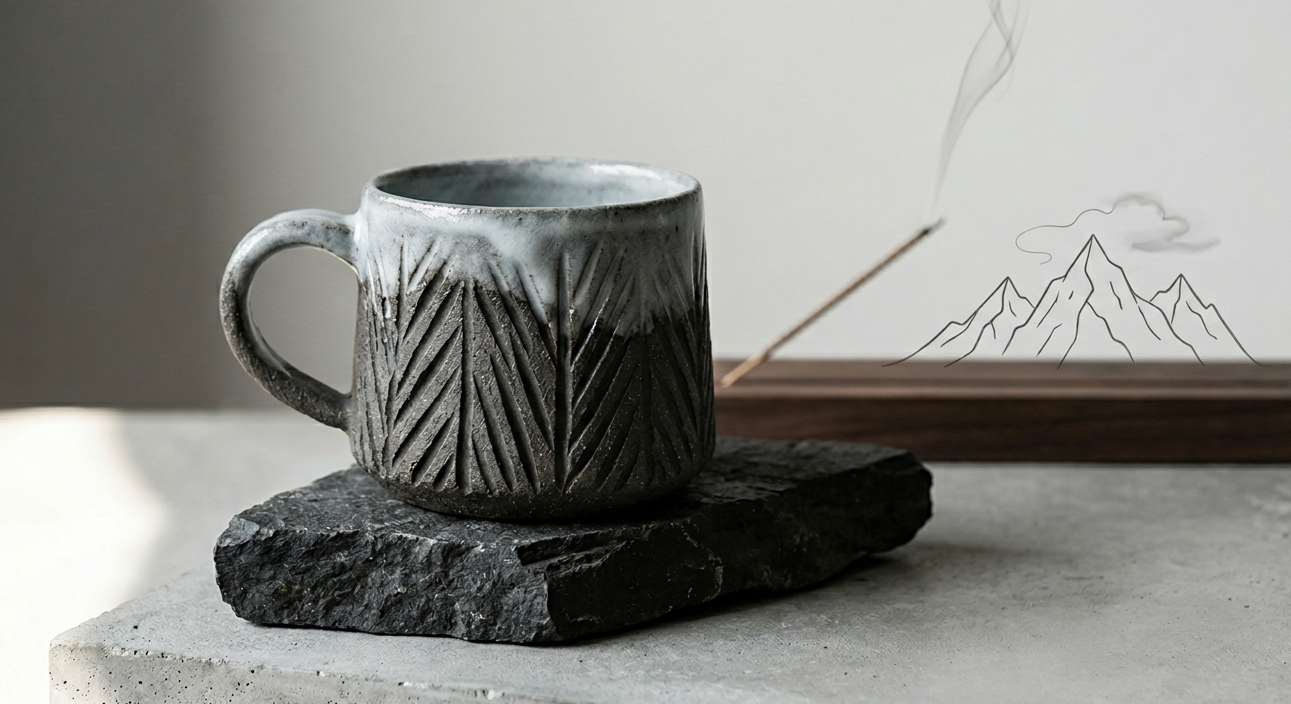
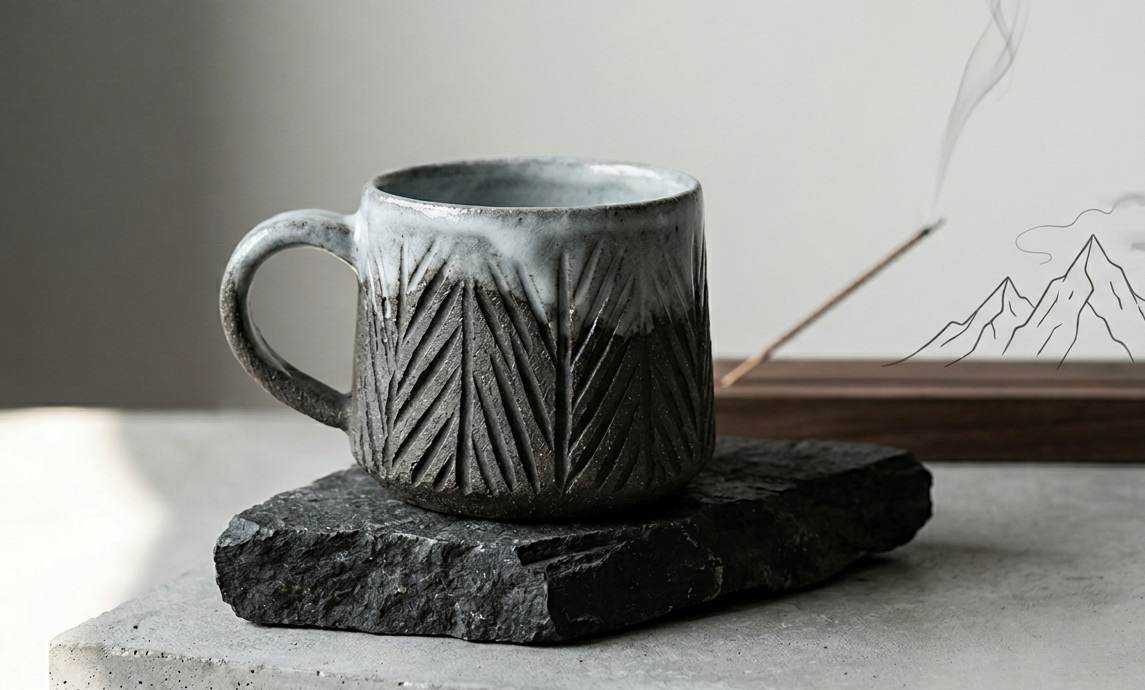
change the title of index.html

diff --git a/index.html b/index.html
@@ -391,7 +391,7 @@
         </div>
         <div class="about-text">
             <span class="section-tag">OUR PHILOSOPHY</span>
-            <h2 class="section-title">褪去多餘的繁瑣花紋，<br>將空間與話語權留給器物本身與使用者</h2>
+            <h2 class="section-title">褪去多餘繁瑣的花紋，<br>將空間話語權留給器物本身</h2>
             <p>雲岫創立於台北。我們相信，每一塊陶土都有自己的脾氣與聲音。透過指尖的力度、水分的拿捏與火候的淬煉，將日常的感悟揉入泥中。</p>
             <p>在這裡，我們不追求完美無瑕的規格化複製品，而是珍惜手拉胚落下的每一道指紋、柴燒留下的每一抹落灰。那是創作者與時間對話的證明。</p>
         </div>
@@ -447,7 +447,7 @@
         <div class="footer-content">
             <div class="footer-box">
                 <h4>Sierra & Co.</h4>
-                <p>讓摸土的時間，成為你日常最平靜的留白。</p>
+                <p>一件對的器皿，足以撐起整個空間的氣韻。</p>
             </div>
             <div class="footer-box">
                 <h4>聯絡與空間資訊</h4>
@@ -462,7 +462,7 @@
                 <ul>
                     <li>週二 — 週日：10:00 - 19:00</li>
                     <li>固定休館日：每週一</li>
-                    <li>體驗課程皆採預約制</li>
+                    <li>*體驗課程皆採預約制</li>
                 </ul>
             </div>
         </div>
